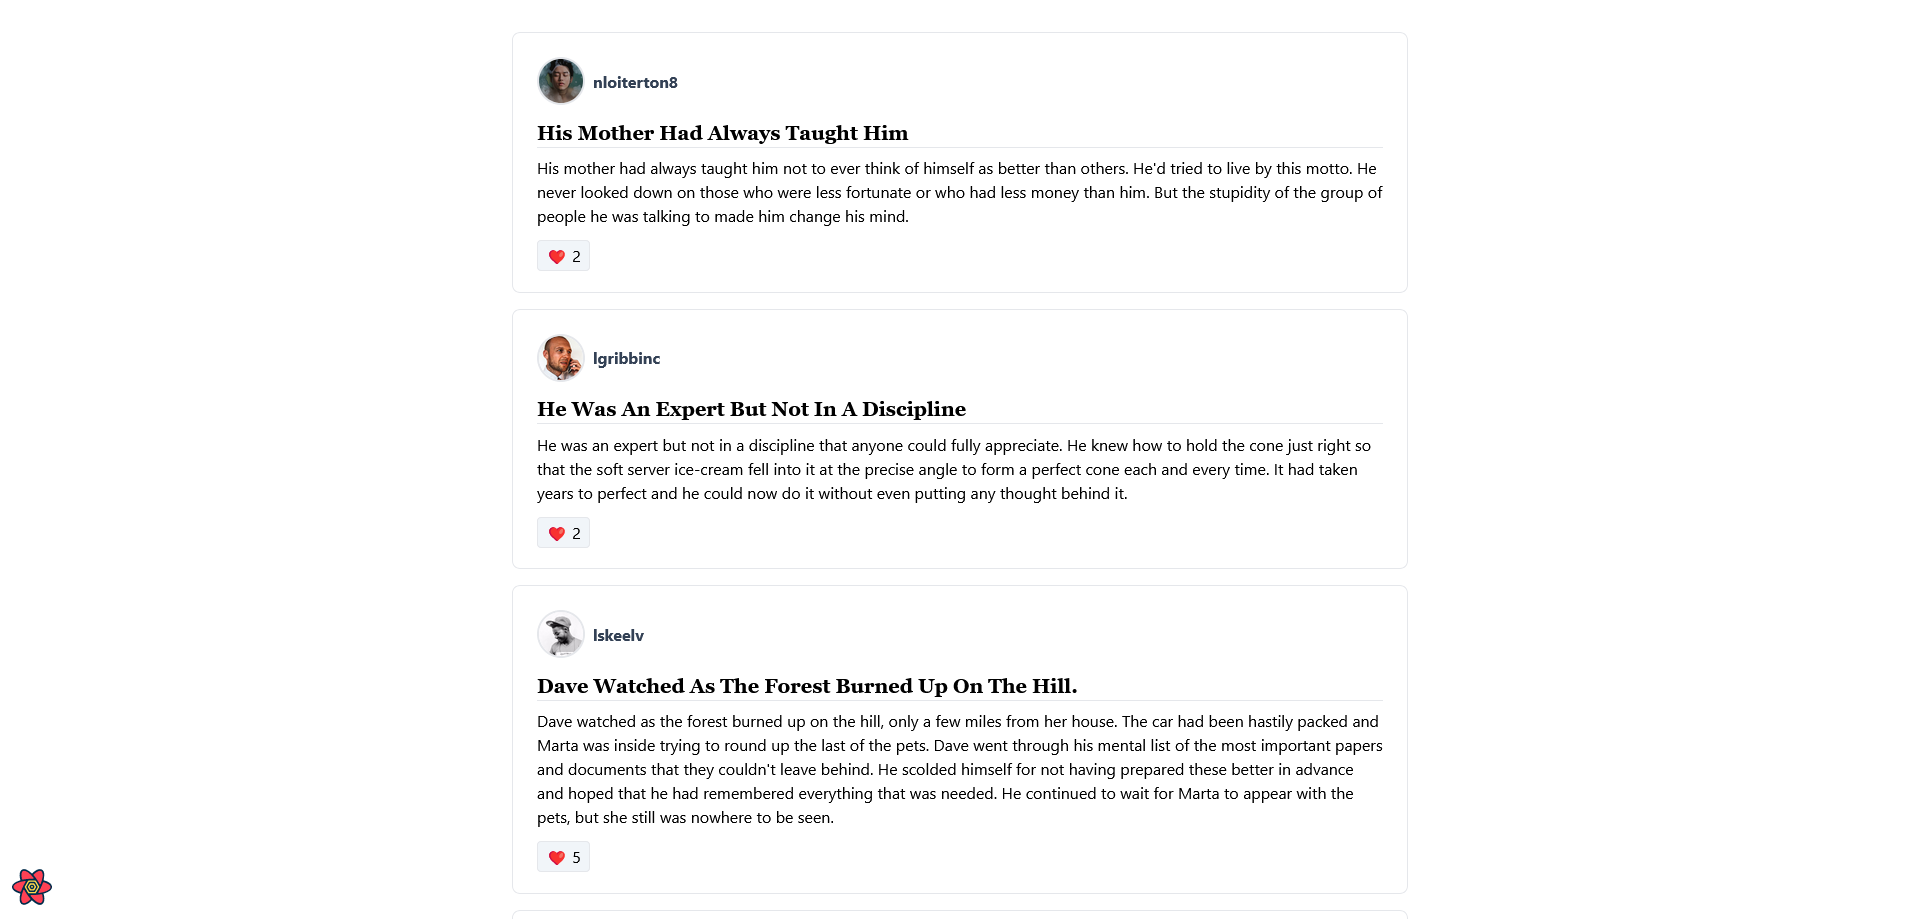
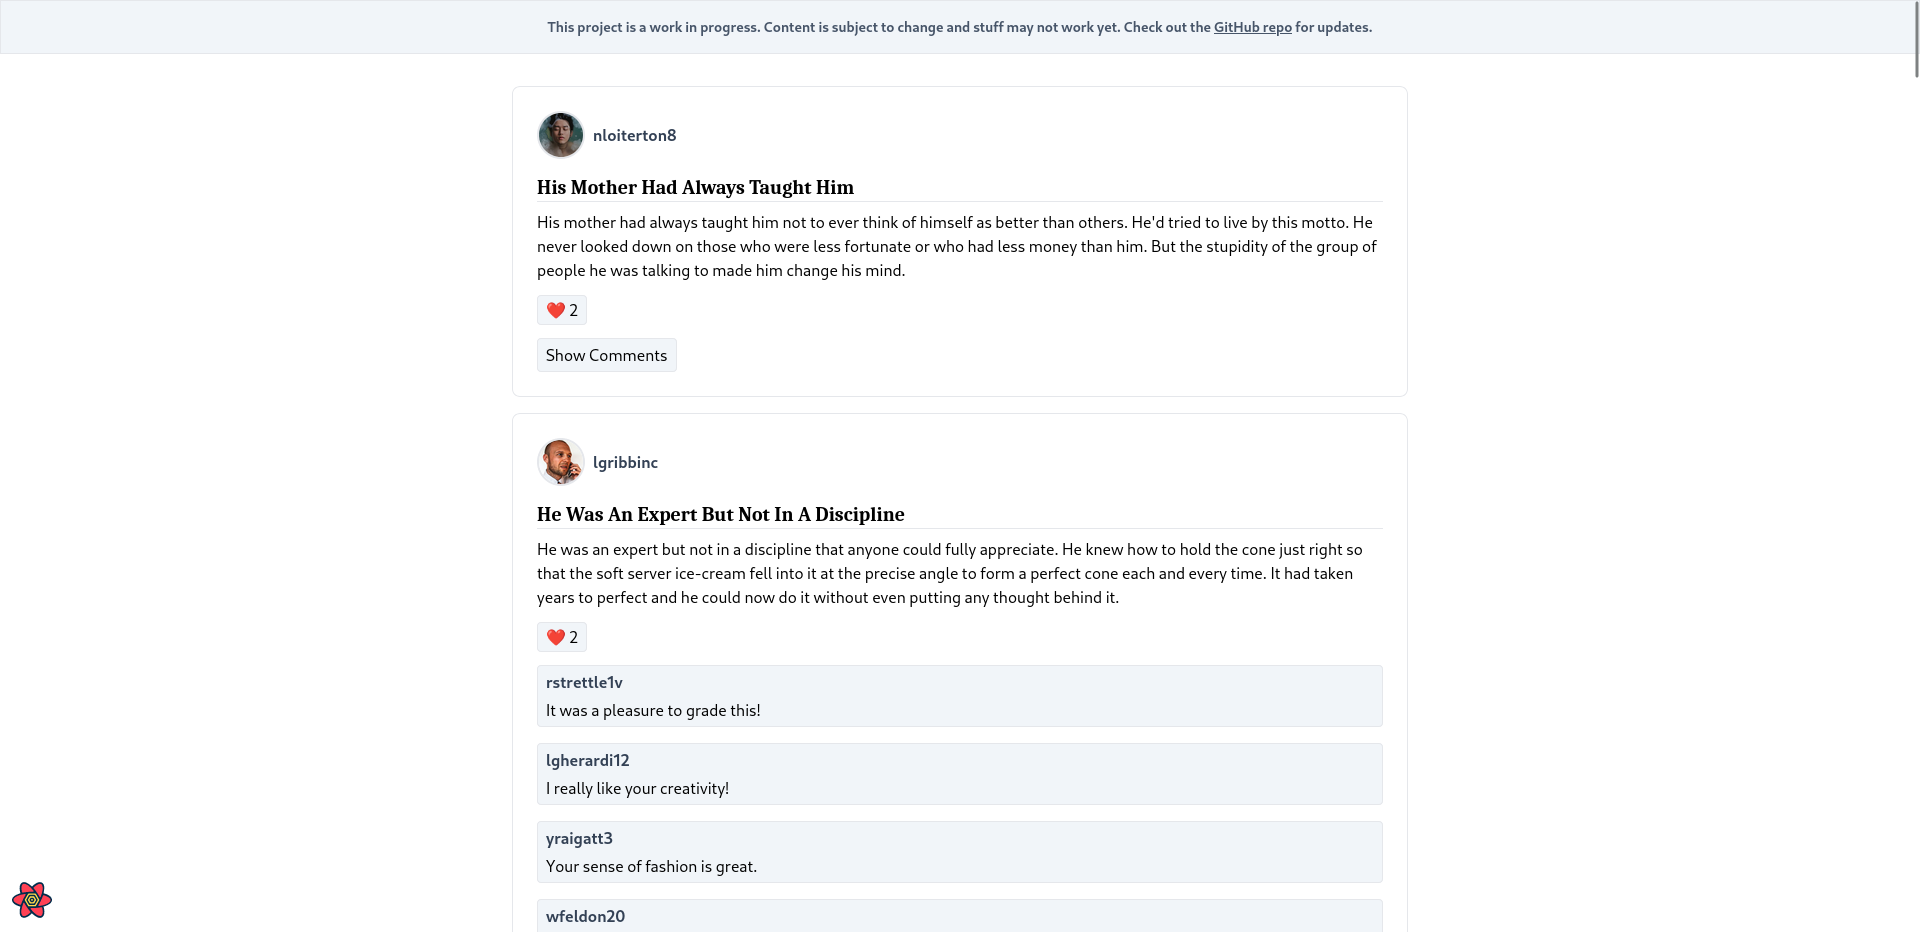
Update README.md and screenshot

diff --git a/README.md b/README.md
@@ -3,3 +3,5 @@ Simulates a feed of posts and respective comment threads using DummyJSON.
 Built with [Vite](https://vitejs.dev/), [React](https://reactjs.org/), [TanStack Query](https://tanstack.com/query/latest), and [Tailwind CSS](https://tailwindcss.com/).
 
 Using data from [DummyJSON](https://dummyjson.com/).
+
+![Screenshot of the website](screenshot.png?1)
